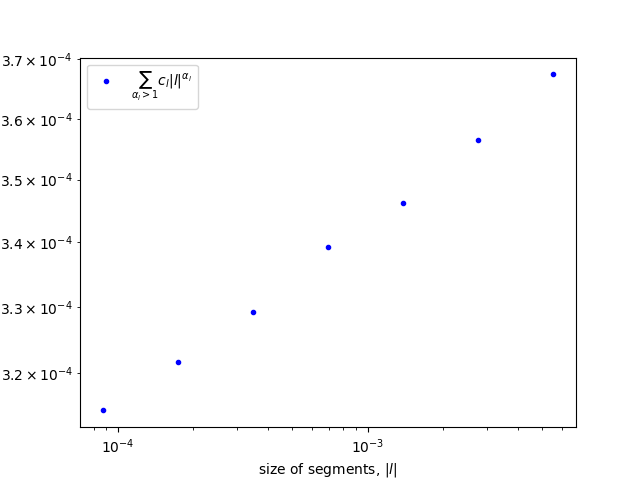
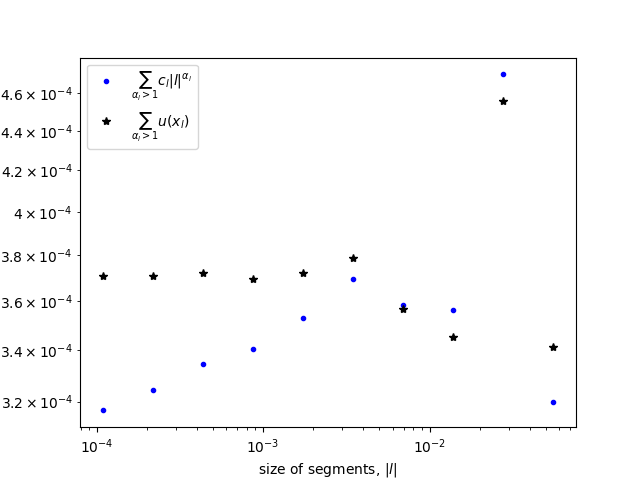
update

diff --git a/Ex3_square_harmonic_adaptive/check_hm.py b/Ex3_square_harmonic_adaptive/check_hm.py
@@ -49,23 +49,28 @@ line_list=line_list+line_list2
 # distance to boundary
 dy_list=[0.5*(1/3.)**n*(1/2.)**i for i in range(5)]
 
-N_all=[20,40,80,160,320,640,1280]
+N_all=[2*2**i for i in range(10)]
 l_list=[] # size of segments
 ms_list=[]
+ms_u_list=[]
 for N in N_all:
    l= (1./3.)**n/N
    l_list.append(l)
    ms=0
-   alpha_list,c_list=get_alpha(uh,line_list,dy_list,N)[0:2]
+   ms_u=0
+   alpha_list,c_list,xl_list=get_alpha(uh,line_list,dy_list,N,l)[0:3]
    for i in range(len(alpha_list)):
      if alpha_list[i]>1:
         ms=ms+c_list[i]*l**alpha_list[i]
+        ms_u=ms_u+uh.at(xl_list[i]) 
    ms_list.append(ms)
+   ms_u_list.append(ms_u)
 
 plt.figure()
 plt.loglog(l_list,ms_list,'b.')
+plt.loglog(l_list,ms_u_list,'k*')
 plt.xlabel('size of segments, $|l|$')
-plt.legend([r'$\sum_{\alpha_l>1}c_l|l|^{\alpha_l}$'  ])
+plt.legend([r'$\sum_{\alpha_l>1}c_l|l|^{\alpha_l}$',r'$\sum_{\alpha_l>1}u(x_l)$'])
 plt.savefig(f"figures/hm_n{n}.png")
 plt.close()
 print(f"plot of harmonic measure of edges  with alpha larger than 1 is saved in figures/hm_n{n}.png")

diff --git a/Ex3_square_harmonic_adaptive/Ex3_solver.py b/Ex3_square_harmonic_adaptive/Ex3_solver.py
@@ -1,6 +1,5 @@
 # Qile Yan 2023-10-21
-# Solve
-#   -\Delta u =f in Omega
+# Solve -\Delta u =f in Omega
 # u = g on boundary
 # Adaptive FEM
 from firedrake.petsc import PETSc
@@ -118,8 +117,9 @@ def plot_colourline_std(x,y,c,indx_list):
 
 
 
-def get_alpha(uh,line_list,dy_list,N):
+def get_alpha(uh,line_list,dy_list,N,l):
    x_list=[]
+   xl_list=[]
    # divide the bottom edge into N segments
    for L in line_list:
       pts_list,nv=divide_line_N(L,N)
@@ -134,6 +134,7 @@ def get_alpha(uh,line_list,dy_list,N):
    for x in x_list:
       pt=x[0]
       nv=x[1]
+      xl_list.append(pt-nv*l)
       # sequence of points
       pp=[pt-yy*nv for yy in dy_list]
       uu=uh.at(pp)
@@ -148,4 +149,4 @@ def get_alpha(uh,line_list,dy_list,N):
          pt_xlist.append(pt[0])
          pt_ylist.append(pt[1])
          std_list.append(res.stderr)
-   return alpha_list, c_list,pt_xlist,pt_ylist,std_list
+   return alpha_list, c_list,xl_list,pt_xlist,pt_ylist,std_list
